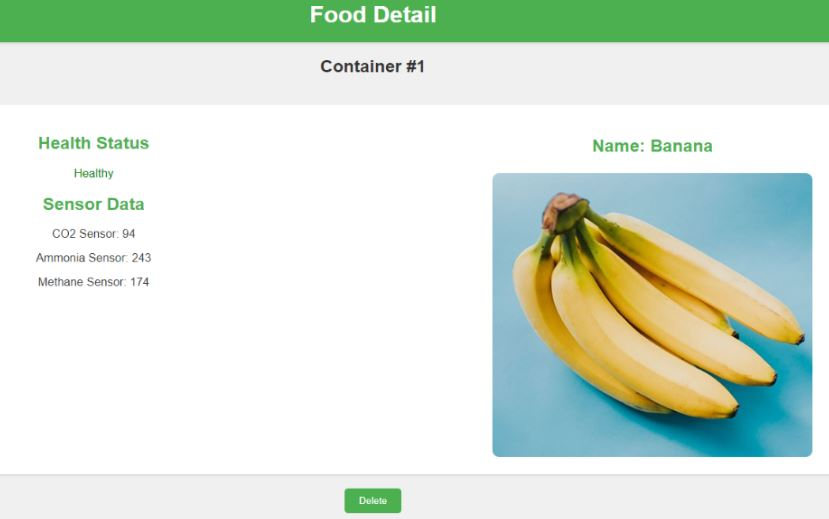
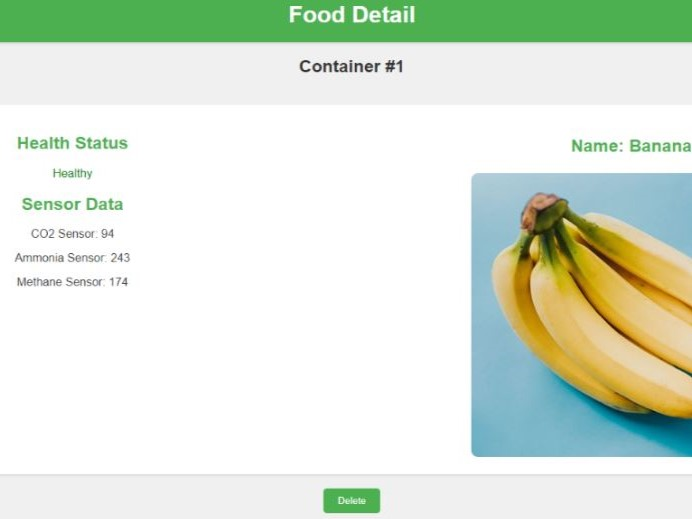
Added content to professional
Added the complete data for local, but remote still needs to be added.

diff --git a/professional.html b/professional.html
@@ -29,45 +29,7 @@
     <button id="load-local-button">Load from Local</button>
     <button id="load-remote-button">Load from Remote</button>
   
-    <div id="project-card-container">
-      <project-card
-        title = "FreshFridge"
-        info = "In my ECE 196 Engineering Hands-On Project course, I was lead programmer for our team project. I worked with two electrical engineers to develop a product called FreshFridge that involved hardware and software connections to support our communities. We developed a storage container that could detect the spoilage of food using gas sensors, and deliver the sensors determinations in real time to the website I developed."
-        small-pic-src = "images/freshfridge/projectpic.jpg"
-        large-pic-src = "images/freshfridge/projectpic.jpg"
-        alt = "Screenshot of the FreshFridge project page displaying the health status of a banana."
-        content-link = "https://alexpazcodesucsd.github.io/FreshFridge/"
-      ></project-card>
-
-      <project-card
-        title = "FreshFridge"
-        info = "In my ECE 196 Engineering Hands-On Project course, I was lead programmer for our team project. I worked with two electrical engineers to develop a product called FreshFridge that involved hardware and software connections to support our communities. We developed a storage container that could detect the spoilage of food using gas sensors, and deliver the sensors determinations in real time to the website I developed."
-        small-pic-src = "images/freshfridge/projectpic.jpg"
-        large-pic-src = "images/freshfridge/projectpic.jpg"
-        alt = "Screenshot of the FreshFridge project page displaying the health status of a banana."
-        content-link = "https://alexpazcodesucsd.github.io/FreshFridge/"
-      ></project-card>
-      <project-card
-        title = "FreshFridge"
-        info = "In my ECE 196 Engineering Hands-On Project course, I was lead programmer for our team project. I worked with two electrical engineers to develop a product called FreshFridge that involved hardware and software connections to support our communities. We developed a storage container that could detect the spoilage of food using gas sensors, and deliver the sensors determinations in real time to the website I developed."
-        small-pic-src = "images/freshfridge/projectpic.jpg"
-        large-pic-src = "images/freshfridge/projectpic.jpg"
-        alt = "Screenshot of the FreshFridge project page displaying the health status of a banana."
-        content-link = "https://alexpazcodesucsd.github.io/FreshFridge/"
-      ></project-card>
-    </div>
-  
-    <hr>
-    <section>
-      <h2>Scratch Lessons</h2>
-      <p>Currently, in my EDS 124BR course on Teaching Computational Thinking, I am developing experience explaining and teaching simple to complex introductory concepts in Computer Science using Scratch.</p>
-      <figure>
-        <iframe width="320" height="240" src="https://www.youtube.com/embed/5D22etKZ6XY" title="nested repeats" allow="accelerometer; autoplay; clipboard-write; encrypted-media; gyroscope; picture-in-picture; web-share" referrerpolicy="strict-origin-when-cross-origin" allowfullscreen></iframe>
-        <figcaption>Example video of my Scratch lessons.</figcaption>
-      </figure>
-  
-      <p>Here is my github site with a small portfolio and some other of my educational Scratch videos!   <strong><a href="https://alexpazcodesucsd.github.io/">Click here.</a></strong></p>
-    </section>
+    <div id="project-card-container"></div>
   </main>
 
   <script src="custom_elements.js"></script>

diff --git a/data_loading.js b/data_loading.js
@@ -11,12 +11,36 @@ const exampleProjects = [
     contentLink: "https://alexpazcodesucsd.github.io/FreshFridge/"
   },
   {
-    title: "FreshFridge2",
-    info: "In my ECE 196 Engineering Hands-On Project course, I was lead programmer for our team project. I worked with two electrical engineers to develop a product called FreshFridge that involved hardware and software connections to support our communities. We developed a storage container that could detect the spoilage of food using gas sensors, and deliver the sensors determinations in real time to the website I developed.",
-    smallPicSrc: "images/freshfridge/projectpic.jpg",
-    largePicSrc: "images/freshfridge/projectpic.jpg",
-    alt: "Screenshot of the FreshFridge project page displaying the health status of a banana.",
-    contentLink: "https://alexpazcodesucsd.github.io/FreshFridge/"
+    title: "UC Safe",
+    info: "For ENG 10, I worked with a team of 4 on a project to improve campus safety. I was lead programmer and had to work with a raspberry pi and motion sensor. It was a fun introduction to working with both hardware and software. In the end we created our project which attaches to the back of a backpack and alerts you through a buzzer when anyone accelerating towards you, to help prevent accidents.",
+    smallPicSrc: "images/eng10/projectpic.jpg",
+    largePicSrc: "images/eng10/projectpic.jpg",
+    alt: "My project attached to a backpack.",
+    contentLink: "https://docs.google.com/presentation/d/1zjePyW6LdVYr4pv8JXGBPzTAW-uqlrWcicdi36-SA8c/edit#slide=id.g2631a98d218_0_115"
+  },
+  {
+    title: "Portfolio Website",
+    info: "In COGS 3 I first began my webdev journey. It was recommended by a friend as a perfect intro to developing websites and the class built up to making a portfolio website to show off what we learned. It was fun trying out frameworks and seeing my website look like a genuine website. I have the website linked here if you would like to check it out.",
+    smallPicSrc: "images/cogs3/projectpic.jpg",
+    largePicSrc: "images/cogs3/projectpic.jpg",
+    alt: "A screenshot of my portfolio site.",
+    contentLink: "https://alexpazcodesucsd.github.io/"
+  },  
+  {
+    title: "Scratch Lessons",
+    info: "Currently, in my EDS 124BR course on Teaching Computational Thinking, I am developing experience explaining and teaching simple to complex introductory concepts in Computer Science using Scratch. I have also taken EDS 124AR where I learned more about teaching CS to K-12 students. I feel passionate about becoming a CS teacher and helping bring CS lessons to all schools. I have linked one of my lessons here.",
+    smallPicSrc: "images/scratch/scratchpic.jpg",
+    largePicSrc: "images/scratch/scratchpic.jpg",
+    alt: "Screenshot of my scratch lesson.",
+    contentLink: "https://www.youtube.com/watch?v=5D22etKZ6XY&ab_channel=JorgePaz"
+  },
+  {
+    title: "Web Dev K-12 Lesson",
+    info: "For CSE 198, I got to participate in creating and giving lessons to K-12 students at schools. Me and a group of about 5 worked to make a lesson to teach kids from Elementary to High school about web development basics. We learned how tough it is to develop lessons that are not dependent on online activities, as schools do not have reliable internet.",
+    smallPicSrc: "images/cse198/webdevlesson.jpg",
+    largePicSrc: "images/cse198/webdevlesson.jpg",
+    alt: "Screenshot of the Web Dev Lesson I worked on.",
+    contentLink: "https://docs.google.com/presentation/d/1zZl2EU3fyOF_q2bUL0EdihWvIRYIfV6bn_356tVDF48/edit#slide=id.p1"
   }
 ];
 

diff --git a/custom_elements.js b/custom_elements.js
@@ -130,12 +130,19 @@ class ProjectCard extends HTMLElement {
           margin: 0 auto;
         }
 
+        #card-picture {
+        width: 400px;
+        height: 300px;
+        display: block;
+        }
+
         img {
           object-position: center;
           width: 100%;
           max-width: 100%; 
           height: auto;
           border-radius: 3em 3em 0em 0em;
+          object-fit: contain;
         }
 
         h2 {

diff --git a/styles.css b/styles.css
@@ -367,7 +367,6 @@ svg {
   width: 100%;
   margin: 3em auto;
   padding: 0em;
-  border: 1px solid black;
 }
 
 /* Contact page CSS grid */
